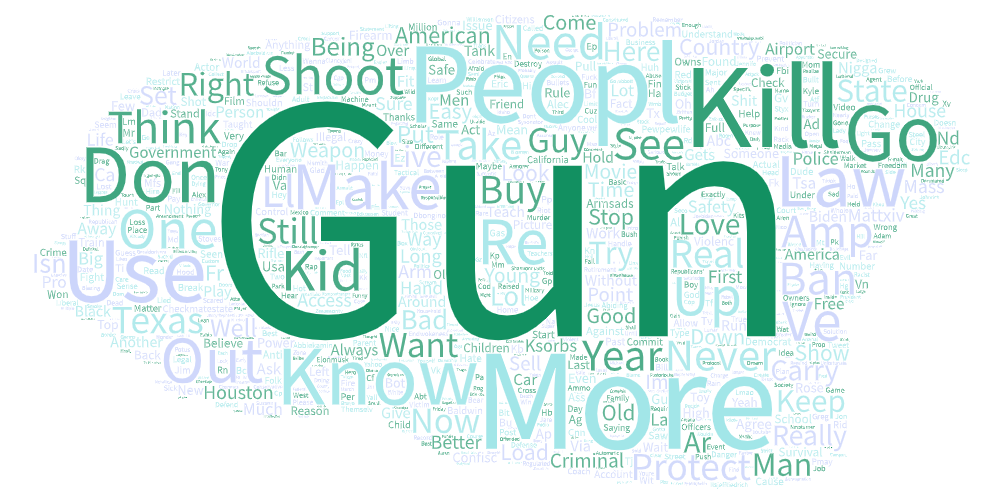
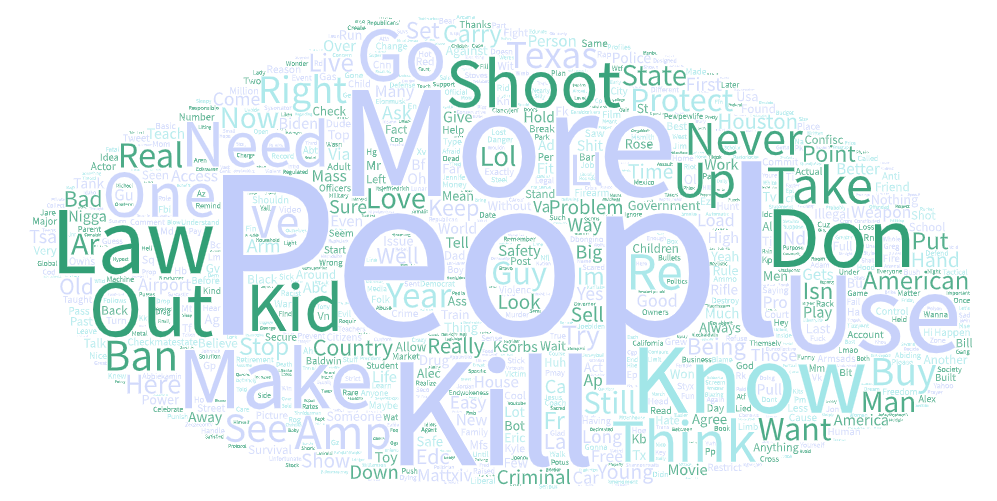
clean

diff --git a/README.md b/README.md
@@ -30,11 +30,11 @@
 
 ## Compare the word clouds and discuss the difference or similarity among the word clouds
 
-> The most biggest word for all 3 word clouds is Gun. Words like "people", "law", "know", "kill", "don", "ban", "go", "shoot", "more" are all medium to big size in all 3 word clouds. All 3 word clouds have small "right" but only Kansas City has "democrat". The word clouds for Los Angeles and Kansas City have a really large "Co". Los Angeles's cloud contains a large "mass" whereas the Kansas City cloud contains "school". The word clouds for Kansas City and Houston has "protect" (large in texas but small in Kansas City), large "kid". There are many other comparisons that could be made but I only listed a few.
+> The most biggest word for all 3 word clouds is Gun. Words like "people", "law", "know", "kill", "don", "ban", "go", "shoot", "more, out" are all medium to big size in all 3 word clouds. All 3 word clouds have small "right" but only Kansas City has "democrat". Los Angeles's cloud contains a large "mass" whereas the Kansas City cloud contains "school". The word clouds for Kansas City and Houston has "protect" (large in texas but small in Kansas City), large "kid". There are many other comparisons that could be made but I only listed a few.
 
 ## What might be the possible reasons for the patterns you observed
 
-> The biggest word being gun is pretty self explanatory. Common words that are medium to large size between all 3 word clouds such as "people", "law", "know", "kill", "don", "ban", "go", "shoot", "more" might be from discussions about the gun control laws. I can see the word "don" being an error from the word "don't" in which case could be people said guns don't kill people and that people kill people. The term "Right" found in all clouds might be due to users blaming the right political spectrum for the gun violence and the "Democrat" could be the right blaming the left for infringing on their gun owning rights. The "Co" in the LA and Kansas City word clouds could possibly be an error in the word cloud importing feature. The "mass" in LA and the "school" in Kansas City could be showing the type of shootings that are taking place in the area recently. The "protect" in Kansas City and Houston could be people explaining how guns are used for self defense and the "kid" could be describing the victims or perpetrators of shootings. Additionally, "kid" could be a way that people on twitter talk about young people.
+> The biggest word being gun is pretty self explanatory. Common words that are medium to large size between all 3 word clouds such as "people", "law", "know", "kill", "don", "ban", "go", "shoot", "more" might be from discussions about the gun control laws. I can see the word "don" being an error from the word "don't" in which case could be people said guns don't kill people and that people kill people. "out" might just be taken from "figure out" wondering what to do or "about" pointing out hypocrasy against their stance. The term "Right" found in all clouds might be due to users blaming the right political spectrum for the gun violence and the "Democrat" could be the right blaming the left for infringing on their gun owning rights. The "mass" in LA and the "school" in Kansas City could be showing the type of shootings that are taking place in the area recently. The "protect" in Kansas City and Houston could be people explaining how guns are used for self defense and the "kid" could be describing the victims or perpetrators of shootings. Additionally, "kid" could be a way that people on twitter talk about young people.
 
 ## How your research could be improved in the future
 
